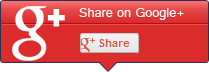
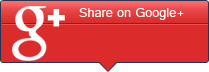
Game Page Share Buttons
Oyun sayfalarındaki paylaş butonları yapıldı.. Yalnız paylaşılacak olan
linklerin php olarak set edilmesi gerekiyor..

Changed region(s): [[0.3732, 0.4444, 0.689, 0.75]]

diff --git a/app/webroot/css/game.css b/app/webroot/css/game.css
@@ -53,7 +53,7 @@
 .rating_5 { background-position:0 0; }
 .addthis_button{margin-right:12px;}
 
-.face_send{float:left; margin:10px; margin-left:40px; width:209px; height:72px; background-image:url(../img/t_gamepage_facebooksend.png); background-repeat:no-repeat;}
-.twitter_twit{float:left; margin:10px; width:209px; height:72px; background-image:url(../img/t_gamepage_twit.png); background-repeat:no-repeat;}
-.google_plus {float:left; margin:10px; width:209px; height:72px; background-image:url(../img/t_gamepage_gplus.png); background-repeat:no-repeat;}
-.pin_pinit{float:left; margin:10px; width:209px; height:72px; background-image:url(../img/t_gamepage_pinit.png); background-repeat:no-repeat;}
+.face_send{float:left; margin:10px; margin-left:40px; width:209px; height:39px; background-image:url(../img/t_gamepage_facebooksend.png); background-repeat:no-repeat; padding-top:33px;}
+.twitter_twit{float:left; margin:10px; width:209px; height:39px; background-image:url(../img/t_gamepage_twit.png); background-repeat:no-repeat; padding-top:33px;}
+.google_plus {float:left; margin:10px; width:209px; height:39px; background-image:url(../img/t_gamepage_gplus.png); background-repeat:no-repeat; padding-top:33px;}
+.pin_pinit{float:left; margin:10px; width:209px; height:39px; background-image:url(../img/t_gamepage_pinit.png); background-repeat:no-repeat; padding-top:33px;}
